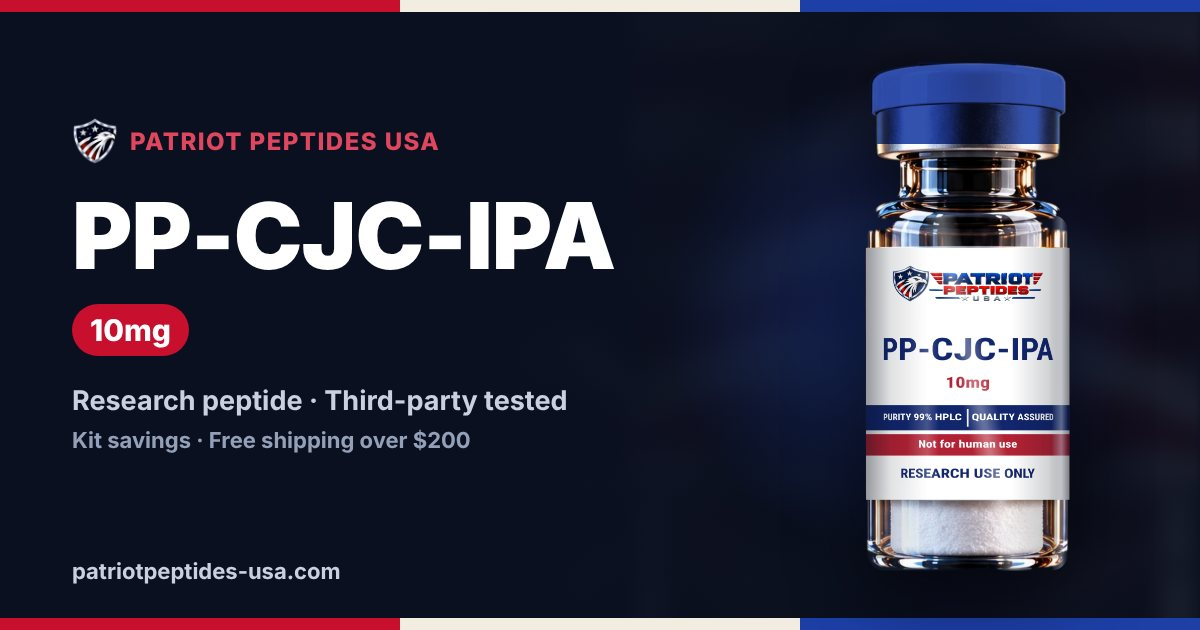
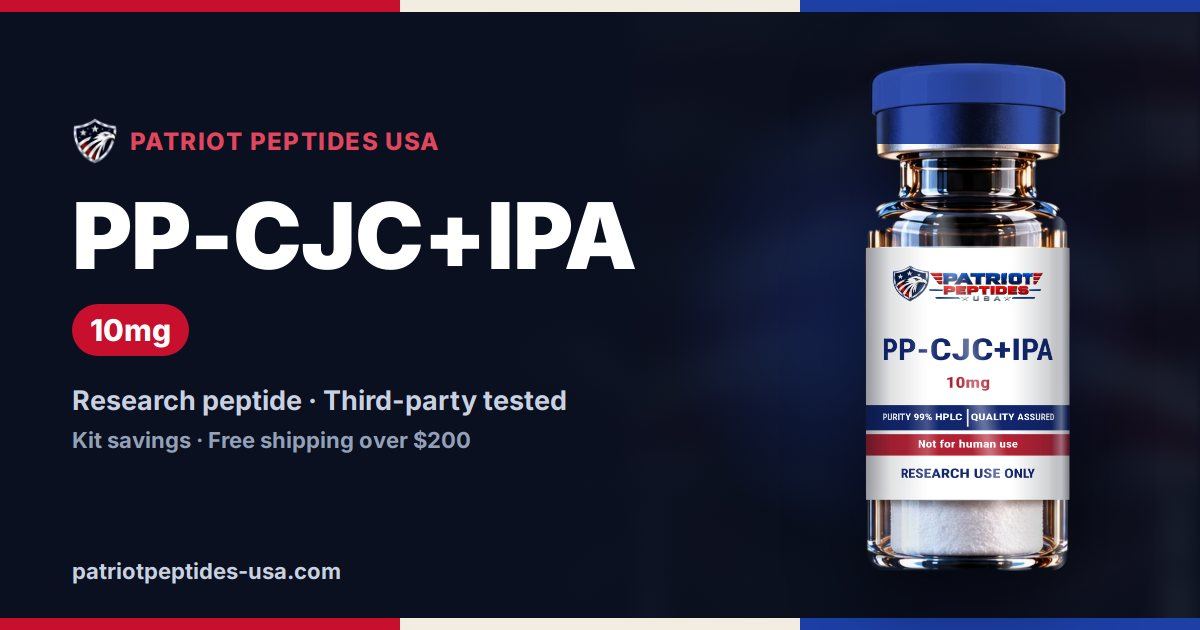
Share pages for new or renamed products

diff --git a/pp-cjc-ipa-pp-cjc-ipa-10mg.html b/pp-cjc-ipa-pp-cjc-ipa-10mg.html
@@ -1,14 +1,14 @@
 <!doctype html>
 <html lang="en"><head><meta charset="utf-8"><meta name="viewport" content="width=device-width,initial-scale=1">
-<title>PP-CJC-IPA 10mg | Patriot Peptides USA</title>
-<meta name="description" content="PP-CJC-IPA 10mg research peptide from Patriot Peptides USA. Third-party lab report on file, kit savings, free shipping over $200 and one-tap Venmo checkout. For research use only.">
+<title>PP-CJC+IPA 10mg | Patriot Peptides USA</title>
+<meta name="description" content="PP-CJC+IPA 10mg research peptide from Patriot Peptides USA. Third-party lab report on file, kit savings, free shipping over $200 and one-tap Venmo checkout. For research use only.">
 <meta name="robots" content="noindex,follow">
-<link rel="canonical" href="https://www.patriotpeptides-usa.com/pp-cjc-ipa.html">
+<link rel="canonical" href="https://www.patriotpeptides-usa.com/pp-cjc-ipa.html?key=PP-CJC-IPA-10MG">
 <meta property="og:type" content="product"><meta property="og:site_name" content="Patriot Peptides USA"><meta property="og:locale" content="en_US"><meta property="og:url" content="https://www.patriotpeptides-usa.com/pp-cjc-ipa-pp-cjc-ipa-10mg.html">
-<meta property="og:title" content="PP-CJC-IPA 10mg | Patriot Peptides USA"><meta property="og:description" content="PP-CJC-IPA 10mg research peptide from Patriot Peptides USA. Third-party lab report on file, kit savings, free shipping over $200 and one-tap Venmo checkout. For research use only.">
-<meta property="og:image" content="https://www.patriotpeptides-usa.com/img/share/pp-cjc-ipa-pp-cjc-ipa-10mg.jpg"><meta property="og:image:secure_url" content="https://www.patriotpeptides-usa.com/img/share/pp-cjc-ipa-pp-cjc-ipa-10mg.jpg"><meta property="og:image:type" content="image/jpeg"><meta property="og:image:width" content="1200"><meta property="og:image:height" content="630"><meta property="og:image:alt" content="PP-CJC-IPA 10mg | Patriot Peptides USA">
-<meta name="twitter:card" content="summary_large_image"><meta name="twitter:title" content="PP-CJC-IPA 10mg | Patriot Peptides USA"><meta name="twitter:description" content="PP-CJC-IPA 10mg research peptide from Patriot Peptides USA. Third-party lab report on file, kit savings, free shipping over $200 and one-tap Venmo checkout. For research use only."><meta name="twitter:image" content="https://www.patriotpeptides-usa.com/img/share/pp-cjc-ipa-pp-cjc-ipa-10mg.jpg">
+<meta property="og:title" content="PP-CJC+IPA 10mg | Patriot Peptides USA"><meta property="og:description" content="PP-CJC+IPA 10mg research peptide from Patriot Peptides USA. Third-party lab report on file, kit savings, free shipping over $200 and one-tap Venmo checkout. For research use only.">
+<meta property="og:image" content="https://www.patriotpeptides-usa.com/img/share/pp-cjc-ipa-pp-cjc-ipa-10mg.jpg"><meta property="og:image:secure_url" content="https://www.patriotpeptides-usa.com/img/share/pp-cjc-ipa-pp-cjc-ipa-10mg.jpg"><meta property="og:image:type" content="image/jpeg"><meta property="og:image:width" content="1200"><meta property="og:image:height" content="630"><meta property="og:image:alt" content="PP-CJC+IPA 10mg | Patriot Peptides USA">
+<meta name="twitter:card" content="summary_large_image"><meta name="twitter:title" content="PP-CJC+IPA 10mg | Patriot Peptides USA"><meta name="twitter:description" content="PP-CJC+IPA 10mg research peptide from Patriot Peptides USA. Third-party lab report on file, kit savings, free shipping over $200 and one-tap Venmo checkout. For research use only."><meta name="twitter:image" content="https://www.patriotpeptides-usa.com/img/share/pp-cjc-ipa-pp-cjc-ipa-10mg.jpg">
 <meta http-equiv="refresh" content="0; url=pp-cjc-ipa.html?key=PP-CJC-IPA-10MG">
 <script>location.replace("pp-cjc-ipa.html?key=PP-CJC-IPA-10MG" + (location.search ? "&" + location.search.slice(1) : "") + location.hash);</script>
 <style>body{margin:0;background:#0A1020;color:#F3EDE1;font:16px system-ui,sans-serif;display:grid;place-items:center;min-height:100vh}a{color:#fff}</style>
-</head><body><p>Opening <a href="pp-cjc-ipa.html?key=PP-CJC-IPA-10MG">PP-CJC-IPA at Patriot Peptides USA</a>…</p></body></html>
+</head><body><p>Opening <a href="pp-cjc-ipa.html?key=PP-CJC-IPA-10MG">PP-CJC+IPA at Patriot Peptides USA</a>…</p></body></html>

diff --git a/staging/pp-cjc-ipa-pp-cjc-ipa-10mg.html b/staging/pp-cjc-ipa-pp-cjc-ipa-10mg.html
@@ -1,14 +1,14 @@
 <!doctype html>
 <html lang="en"><head><meta charset="utf-8"><meta name="viewport" content="width=device-width,initial-scale=1">
-<title>PP-CJC-IPA 10mg | Patriot Peptides USA</title>
-<meta name="description" content="PP-CJC-IPA 10mg research peptide from Patriot Peptides USA. Third-party lab report on file, kit savings, free shipping over $200 and one-tap Venmo checkout. For research use only.">
+<title>PP-CJC+IPA 10mg | Patriot Peptides USA</title>
+<meta name="description" content="PP-CJC+IPA 10mg research peptide from Patriot Peptides USA. Third-party lab report on file, kit savings, free shipping over $200 and one-tap Venmo checkout. For research use only.">
 <meta name="robots" content="noindex,follow">
-<link rel="canonical" href="https://www.patriotpeptides-usa.com/pp-cjc-ipa.html">
+<link rel="canonical" href="https://www.patriotpeptides-usa.com/pp-cjc-ipa.html?key=PP-CJC-IPA-10MG">
 <meta property="og:type" content="product"><meta property="og:site_name" content="Patriot Peptides USA"><meta property="og:locale" content="en_US"><meta property="og:url" content="https://www.patriotpeptides-usa.com/pp-cjc-ipa-pp-cjc-ipa-10mg.html">
-<meta property="og:title" content="PP-CJC-IPA 10mg | Patriot Peptides USA"><meta property="og:description" content="PP-CJC-IPA 10mg research peptide from Patriot Peptides USA. Third-party lab report on file, kit savings, free shipping over $200 and one-tap Venmo checkout. For research use only.">
-<meta property="og:image" content="https://www.patriotpeptides-usa.com/img/share/pp-cjc-ipa-pp-cjc-ipa-10mg.jpg"><meta property="og:image:secure_url" content="https://www.patriotpeptides-usa.com/img/share/pp-cjc-ipa-pp-cjc-ipa-10mg.jpg"><meta property="og:image:type" content="image/jpeg"><meta property="og:image:width" content="1200"><meta property="og:image:height" content="630"><meta property="og:image:alt" content="PP-CJC-IPA 10mg | Patriot Peptides USA">
-<meta name="twitter:card" content="summary_large_image"><meta name="twitter:title" content="PP-CJC-IPA 10mg | Patriot Peptides USA"><meta name="twitter:description" content="PP-CJC-IPA 10mg research peptide from Patriot Peptides USA. Third-party lab report on file, kit savings, free shipping over $200 and one-tap Venmo checkout. For research use only."><meta name="twitter:image" content="https://www.patriotpeptides-usa.com/img/share/pp-cjc-ipa-pp-cjc-ipa-10mg.jpg">
+<meta property="og:title" content="PP-CJC+IPA 10mg | Patriot Peptides USA"><meta property="og:description" content="PP-CJC+IPA 10mg research peptide from Patriot Peptides USA. Third-party lab report on file, kit savings, free shipping over $200 and one-tap Venmo checkout. For research use only.">
+<meta property="og:image" content="https://www.patriotpeptides-usa.com/img/share/pp-cjc-ipa-pp-cjc-ipa-10mg.jpg"><meta property="og:image:secure_url" content="https://www.patriotpeptides-usa.com/img/share/pp-cjc-ipa-pp-cjc-ipa-10mg.jpg"><meta property="og:image:type" content="image/jpeg"><meta property="og:image:width" content="1200"><meta property="og:image:height" content="630"><meta property="og:image:alt" content="PP-CJC+IPA 10mg | Patriot Peptides USA">
+<meta name="twitter:card" content="summary_large_image"><meta name="twitter:title" content="PP-CJC+IPA 10mg | Patriot Peptides USA"><meta name="twitter:description" content="PP-CJC+IPA 10mg research peptide from Patriot Peptides USA. Third-party lab report on file, kit savings, free shipping over $200 and one-tap Venmo checkout. For research use only."><meta name="twitter:image" content="https://www.patriotpeptides-usa.com/img/share/pp-cjc-ipa-pp-cjc-ipa-10mg.jpg">
 <meta http-equiv="refresh" content="0; url=pp-cjc-ipa.html?key=PP-CJC-IPA-10MG">
 <script>location.replace("pp-cjc-ipa.html?key=PP-CJC-IPA-10MG" + (location.search ? "&" + location.search.slice(1) : "") + location.hash);</script>
 <style>body{margin:0;background:#0A1020;color:#F3EDE1;font:16px system-ui,sans-serif;display:grid;place-items:center;min-height:100vh}a{color:#fff}</style>
-</head><body><p>Opening <a href="pp-cjc-ipa.html?key=PP-CJC-IPA-10MG">PP-CJC-IPA at Patriot Peptides USA</a>…</p></body></html>
+</head><body><p>Opening <a href="pp-cjc-ipa.html?key=PP-CJC-IPA-10MG">PP-CJC+IPA at Patriot Peptides USA</a>…</p></body></html>
